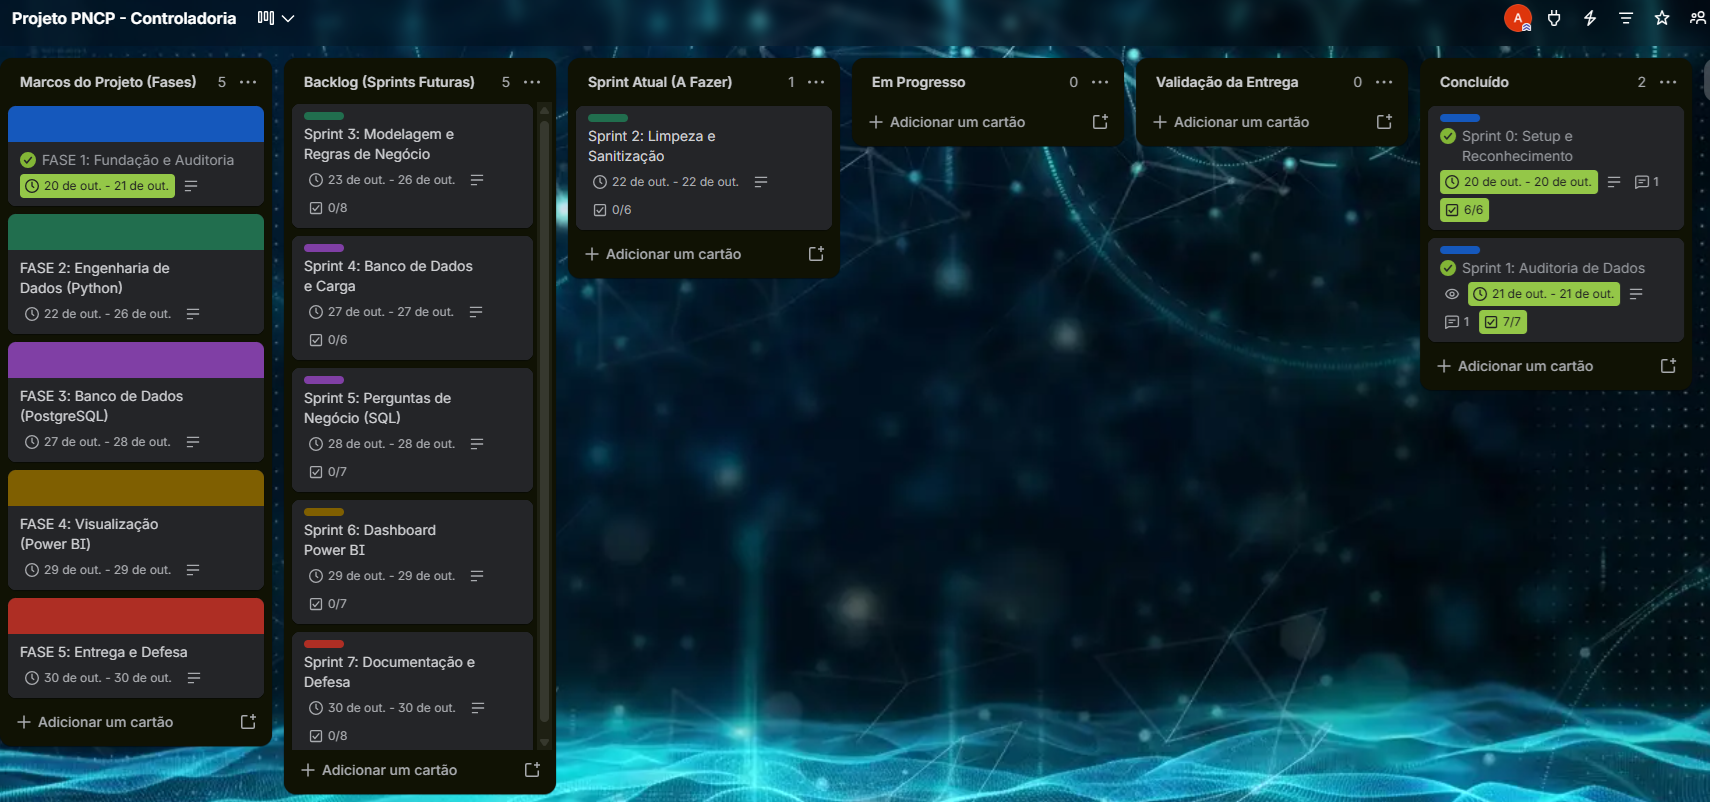
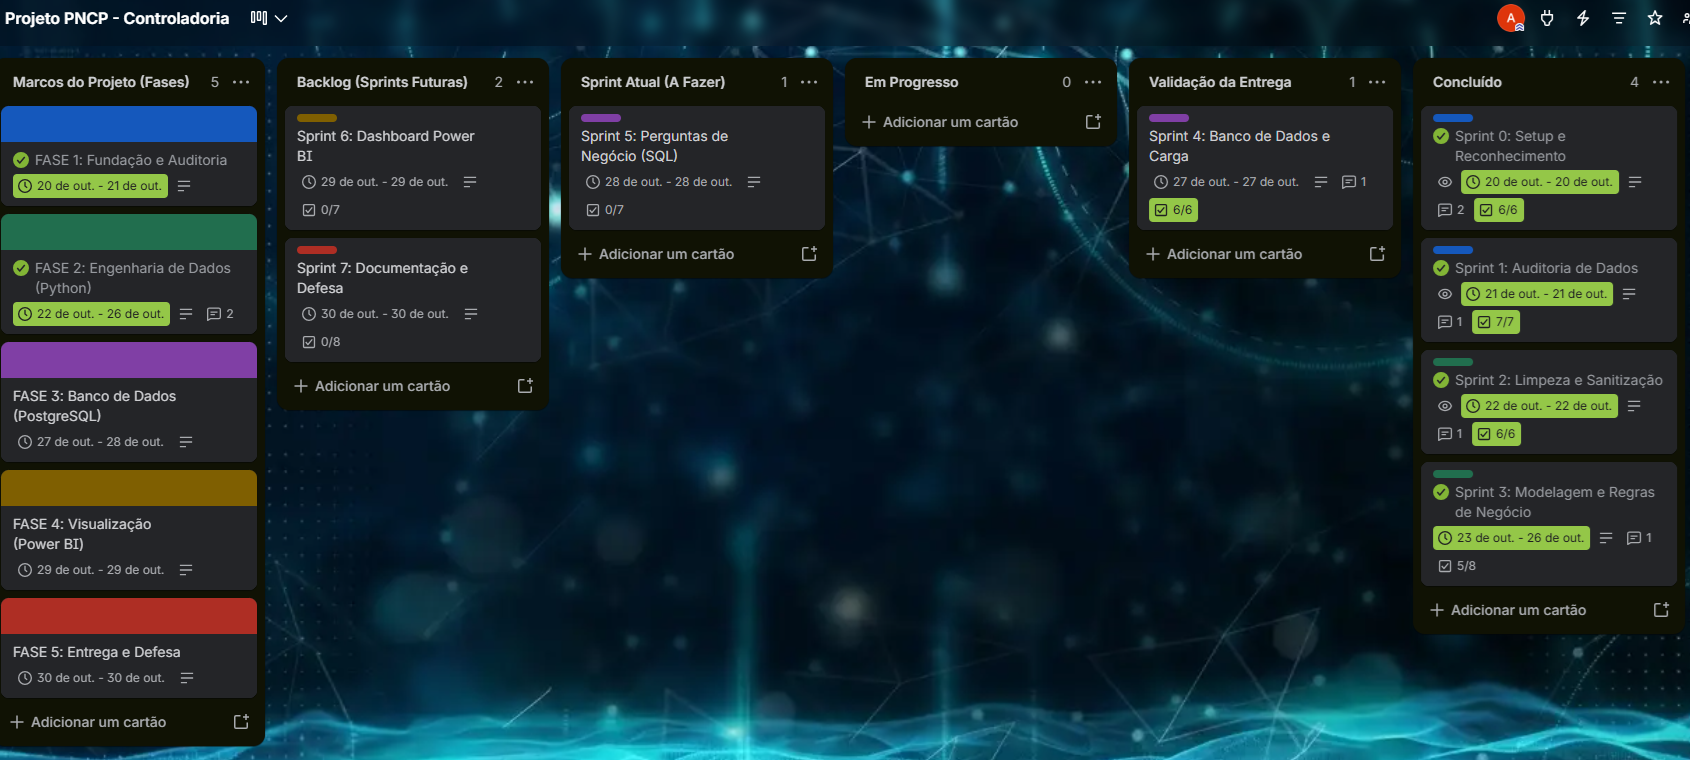
docs: adiciona secao 6 (perguntas e respostas), historico da Sprint 5 e atualiza print do Trello

diff --git a/README.md b/README.md
@@ -31,10 +31,11 @@ Esteira analítica ponta a ponta (End-to-End) para auditoria e inteligência de 
   - [4.1. Sanitização em Python (`src/limpeza.py`)](#41-sanitizacao)
   - [4.2. Regras de negócio da Controladoria](#42-regras-negocio)
 - [5. Modelagem Dimensional (Star Schema)](#5-modelagem)
-- [6. Planejamento em Sprints e Lições Aprendidas](#6-sprints)
-  - [6.1. Histórico de Sprints](#61-historico)
-- [7. Guia de Execução](#7-execucao)
-- [8. Melhorias Futuras e Vídeo de Defesa](#8-melhorias)
+- [6. Perguntas de Negócio e Respostas](#6-perguntas)
+- [7. Planejamento em Sprints e Lições Aprendidas](#7-sprints)
+  - [7.1. Histórico de Sprints](#71-historico)
+- [8. Guia de Execução](#8-execucao)
+- [9. Melhorias Futuras e Vídeo de Defesa](#9-melhorias)
 
 ---
 
@@ -48,7 +49,6 @@ Esteira analítica ponta a ponta (End-to-End) para auditoria e inteligência de 
 ---
 
 <a id="2-arquitetura"></a>
-
 ## 2. Arquitetura da Solução e Tecnologias
 
 *[A preencher na Fase 1]*
@@ -335,16 +335,13 @@ Todos os formatos monetários identificados na Seção 3 são convertidos corret
 
 Os 8 formatos detectados na auditoria descrita na Seção 3 são cobertos pelos 6 formatos-base (combinados com/sem hora). Datas invertidas (1.056 casos) serão tratadas na Sprint 3 pela **regra 7** do enunciado.
 
-#### 4.1.6. Limitações conhecidas (alimentam a Seção 8 — Melhorias Futuras)
+#### 4.1.6. Limitações conhecidas (alimentam a Seção 9 — Melhorias Futuras)
 
 - **`padronizar_nome()`** insere espaço ao redor de qualquer `-`. Resolve `"Pregão-Eletrônico"` → `"PREGÃO - ELETRÔNICO"`, mas alteraria códigos com hífen interno (ex: `"ABC-123"` → `"ABC - 123"`). Para o escopo atual (nomes de órgão/fornecedor), é aceitável.
 - **`remover_invisiveis()`** usa caracteres zero-width literais no código-fonte (invisíveis no editor). Alternativa mais robusta: usar `\u200b` explícito como escape Unicode. Não impacta o resultado; é questão de manutenibilidade.
 
 <a id="42-regras-negocio"></a>
-
 ### 4.2. Regras de negócio da Controladoria (`src/montar_tabelas.py`)
-
-*[A preencher na Sprint 3 — implementação das 12 regras de negócio]*
 
 #### 4.2.1. Decisões herdadas da auditoria (Sprint 1) e da limpeza (Sprint 2)
 
@@ -435,7 +432,7 @@ Foram rejeitados **99 itens** pelos 7 critérios da regra 4 do enunciado. Cada i
 | 6 | Valor total homologado mais de 1.000× o valor total estimado |
 | 7 | Valor total (estimado ou homologado) acima de R$ 1 trilhão — limite definido para não estourar o tipo `DECIMAL(18,2)` do PostgreSQL na Sprint 4 |
 
-Os itens rejeitados **não são carregados na tabela Fato**, a verificação é feita pelo total (99, conforme Anexo 8) são apenas contabilizados.
+Os itens rejeitados **não são carregados na tabela Fato** — a verificação é feita pelo total (99, conforme Anexo 8); são apenas contabilizados.
 
 **Aprendizado:** a Prova Real foi batida na **primeira execução** após corrigir 1 erro de sintaxe (duplicação no `dias_ciclo`). A estratégia de implementar as 12 regras em ordem de dependência (limpeza → vencedor → merge → valores → rejeição → comparabilidade → cronologia → perfil → dimensões) evitou retrabalho.
 
@@ -444,10 +441,9 @@ Os itens rejeitados **não são carregados na tabela Fato**, a verificação é 
 ---
 
 <a id="5-modelagem"></a>
-
 ## 5. Modelagem Dimensional (Star Schema)
 
-A camada analítica segue o modelo **Star Schema** (1 tabela Fato + 4 Dimensões), implementado no PostgreSQL pela Sprint.
+A camada analítica segue o modelo **Star Schema** (1 tabela Fato + 4 Dimensões), implementado no PostgreSQL pela Sprint 4.
 
 ### 5.1. Diagrama
 
@@ -470,9 +466,9 @@ A camada analítica segue o modelo **Star Schema** (1 tabela Fato + 4 Dimensões
 - **Integridade referencial:** 4 FKs da Fato apontam para as 4 Dimensões, todas `NOT NULL`. A Prova Real confirmou que **não há FK órfã** — a linha `-1` ("Não informado") **não foi necessária**;
 - **Tipos de dados:**
   - `DECIMAL(18,2)` para valores monetários totais
-  - `DECIMAL(18,4)` para preços unitários e quantidades;
+  - `DECIMAL(18,4)` para preços unitários e quantidades
   - `DATE` para datas
-  - `SMALLINT` para a flag `comparavel` (0 ou 1).
+  - `SMALLINT` para a flag `comparavel` (0 ou 1)
 - **CHECKs de integridade:** `quantidade > 0`; todos os valores `>= 0`; `comparavel IN (0, 1)`.
 - **Campos vazios:** `data_homologacao`, `economia_valor` e `dias_ciclo` são `NULL` quando a regra de negócio anula o dado (230 itens sem ciclo, itens não comparáveis);
 - **Tempo no Power BI:** a dimensão Calendário **não é tabela do banco** — é criada em DAX no Power BI (Sprint 6), relacionada a `data_publicacao` e `data_homologacao` via `USERELATIONSHIP`.
@@ -481,16 +477,140 @@ A camada analítica segue o modelo **Star Schema** (1 tabela Fato + 4 Dimensões
 
 ---
 
-<a id="6-sprints"></a>
-## 6. Planejamento em Sprints e Lições Aprendidas
+<a id="6-perguntas"></a>
+## 6. Perguntas de Negócio e Respostas
+
+As respostas abaixo foram extraídas com as queries de `sql/02_perguntas.sql` e validadas contra a Prova Real (Anexo 8 do enunciado).
+
+### 6.1. Resumo
+
+| # | Pergunta | Resposta | Query |
+| :---: | :--- | :--- | :--- |
+| 1 | Economia global | **14,46%** / **R$ 992,86 mi** | `P1` |
+| 2 | Concentração de fornecedores | Top 10 = **41,43%** do orçamento | `P2a`, `P2b` |
+| 3 | Eficácia por modalidade | Pregão Eletrônico: **24,02%** de deságio | `P3` |
+| 4 | Ciclo de compras | Média **48,1 dias**, máximo **611** | `P4` |
+| 5 | Distribuição regional | CO concentra **44,25%**; Norte tem **21,43%** de deságio | `P5a`, `P5b` |
+| 6 | Perfil do gasto | Obras = **60,82%** do volume | `P6` |
+
+### 6.2. P1 — Economia global do Poder Público
+
+> *"Qual é o percentual e o valor financeiro nominal economizado pelo governo (diferença entre valor estimado e valor homologado)?"*
+
+- **Valor estimado comparável:** R$ 6.867.663.469,91
+- **Economia nominal:** **R$ 992.861.686,95**
+- **Economia %:** **14,46%**
+
+**Interpretação:** para cada R$ 100 estimados em itens comparáveis, o governo pagou R$ 85,54 — economia de **R$ 14,46 por R$ 100**. Dos R$ 8,04 bi de volume homologado, quase **R$ 1 bilhão** foi economizado.
+
+### 6.3. P2 — Concentração e risco de fornecedores
+
+> *"Quem são os maiores fornecedores em volume financeiro e qual percentual do orçamento público está concentrado neles?"*
+
+**Top 5 fornecedores:**
+
+| Fornecedor | Volume (R$) | % do total |
+| :--- | ---: | ---: |
+| NOW SEGUROS SA | 1.060.000.000,00 | 13,18% |
+| CONSTRUTORA CIDADE LTDA | 524.935.394,97 | 6,53% |
+| BANCO BRADESCO S.A. | 379.194.320,07 | 4,71% |
+| CONSTRUTORA NORTE BRASIL LTDA | 335.401.470,80 | 4,17% |
+| LCM CONSTRUÇÃO E COMÉRCIO S.A. | 228.885.493,53 | 2,85% |
+
+- **Top 10 concentram 41,43%** do orçamento (R$ 3.332.484.029,86 de R$ 8,04 bi).
+- **2.642 fornecedores menores** dividem os 58,57% restantes.
+
+**Interpretação:** a concentração em 10 fornecedores (41% do gasto) é um **sinal de risco** para a Controladoria — dependência de poucos vendedores pode reduzir a competitividade futura. **7 dos 10 maiores são construtoras**, consistente com o perfil do gasto (P6).
+
+### 6.4. P3 — Eficácia por modalidade
+
+> *"Quais modalidades licitatórias trazem maior deságio/economia e quais concentram o maior volume de recursos?"*
+
+| Modalidade | Volume (R$) | Deságio |
+| :--- | ---: | ---: |
+| Concorrência Eletrônica | 4.700.493.122,98 | 14,27% |
+| Credenciamento | 2.141.301.557,16 | **NULL** *(esperado)* |
+| Pregão Eletrônico | 502.223.491,28 | **24,02%** ⭐ |
+| Concorrência Presencial | 444.752.757,18 | 6,79% |
+| Inexigibilidade | 213.365.238,19 | 8,77% |
+| Dispensa | 39.887.350,44 | 4,49% |
+| Pregão Presencial | 2.475.288,51 | 0,02% |
+
+**Interpretação:** há uma **inversão entre volume e deságio**. Pregão Eletrônico tem o **maior deságio (24,02%)**, mas absorve apenas 6% do volume. As modalidades de maior volume — Concorrência Eletrônica (58%) e Credenciamento (27%) — têm deságio **menor** (14,27%) ou **estruturalmente incalculável** (Credenciamento). **A Controladoria tem espaço para ampliar a competitividade onde o dinheiro está.**
+
+### 6.5. P4 — Tempo do ciclo de compras
+
+> *"Qual a duração média (em dias) entre o lançamento do edital e a sua homologação final, segmentada por órgão?"*
+
+- **Ciclo médio geral:** **48,1 dias**
+- **Ciclo máximo:** **611 dias** (COMANDO DO EXÉRCITO)
+- **Órgão mais lento (com ≥ 5 itens):** UFCG — 266,3 dias
+- **Itens sem ciclo:** 230 (homologação anterior à publicação — regra 7)
+
+**Extremos:**
+
+| Órgão | Itens com ciclo | Ciclo médio |
+| :--- | ---: | ---: |
+| UNIVERSIDADE FEDERAL DE CAMPINA GRANDE | 16 | **266,3 dias** |
+| DNIT | 62 | 156,2 dias |
+| COMANDO DO EXÉRCITO | 1.200 | 34,3 dias |
+| COMANDO DA MARINHA | 453 | 35,3 dias |
+
+**Interpretação:** há uma **desigualdade operacional de ~600× entre órgãos**. Os **3 Comandos Militares** (Exército, Marinha, Aeronáutica) são os maiores compradores (33% dos itens) e operam **abaixo da média** (34-56 dias). O **DNIT** (obras) é 4× mais lento que a média — e obras representam 60,82% do gasto (P6). **A lentidão em obras é o gargalo estrutural.**
+
+### 6.6. P5 — Distribuição regional
+
+> *"Quais estados e regiões concentram as maiores despesas e quais apresentam os melhores indicadores de desconto?"*
+
+**Top 5 UFs por volume:**
+
+| UF | Região | Volume (R$) | Deságio |
+| :--- | :--- | ---: | ---: |
+| DF | Centro-Oeste | 3.135.638.456,35 | 15,90% |
+| RS | Sul | 820.584.056,64 | 7,18% |
+| RJ | Sudeste | 461.925.602,27 | 11,57% |
+| PI | Nordeste | 408.389.525,89 | **5,98%** ⚠ |
+| SP | Sudeste | 393.783.392,48 | 9,22% |
+
+**Agregação por região:**
+
+| Região | Volume (R$) | % | Deságio |
+| :--- | ---: | ---: | ---: |
+| **Centro-Oeste** | 3.559.879.991,73 | **44,25%** | 17,02% |
+| Nordeste | 1.850.420.285,02 | 23,00% | 14,18% |
+| Sudeste | 1.083.309.811,49 | 13,47% | 11,62% |
+| **Sul** | 1.021.624.955,41 | 12,70% | **7,96%** ⚠ |
+| **Norte** | 529.263.762,09 | 6,58% | **21,43%** ⭐ |
+
+**Interpretação:** há **inversão geográfica** entre volume e deságio. **Centro-Oeste concentra 44,25% do orçamento** (DF = sede dos órgãos federais) mas tem deságio médio. **Norte tem o maior deságio (21,43%)** com o menor volume — sinal de **mais competição local** ou **menor concentração de fornecedores**. **Sul é o caso mais crítico**: R$ 1,02 bi com deságio de apenas 7,96% (metade da média nacional).
+
+**Custo de oportunidade:** se o Sul tivesse o deságio médio nacional (14,46%), economizaria ~**R$ 66 milhões adicionais**.
+
+### 6.7. P6 — Perfil dos gastos
+
+> *"Como os recursos se distribuem entre bens, serviços e obras e engenharia?"*
+
+| Perfil | Itens | Volume (R$) | % Itens | % Volume |
+| :--- | ---: | ---: | ---: | ---: |
+| **Obras e engenharia** | 967 | 4.892.362.732,70 | 15,8% | **60,82%** |
+| **Serviços** | 1.849 | 2.940.950.885,18 | 30,2% | 36,56% |
+| **Bens** | 3.310 | 211.185.187,86 | 54,0% | **2,63%** |
+
+**Interpretação:** **967 itens de obras consomem quase 2/3 do orçamento**, enquanto 3.310 itens de bens (o dobro em quantidade) consomem apenas 2,63%. **Obras são o gargalo financeiro** — e combinam com P3 (Concorrência Eletrônica, modalidade de obras, lidera o volume) e P4 (DNIT, órgão de obras, é 4× mais lento). **A auditoria da Controladoria deve priorizar obras: é onde o dinheiro está, onde o ciclo é maior e onde o deságio é menor.**
+
+[⬆ Voltar ao índice](#-índice)
+
+---
+
+<a id="7-sprints"></a>
+## 7. Planejamento em Sprints e Lições Aprendidas
 
 O projeto foi executado em **5 Fases (Marcos)** e **8 Micro-Sprints**, adaptando o framework Scrum a um prazo de 9 dias úteis (20/10 a 30/10/2026), sem codificação em fins de semana. Cada Sprint tem um **MVP** e um **Critério de Aceite** explícitos, registrados no Trello.
 
 ![Sprints do projeto](docs/img/sprints.png)
 
-<a id="61-historico"></a>
-
-### 6.1. Histórico de Sprints
+<a id="71-historico"></a>
+### 7.1. Histórico de Sprints
 
 #### Fase 1 — Fundação e Auditoria (Sprints 0 e 1)
 
@@ -552,7 +672,7 @@ Realizados preparação da infraestrutura do projeto e diagnóstico de anomalias
 
 ---
 
-#### Fase 3 — Banco de Dados (Sprints 4 e 5) — em andamento
+#### Fase 3 — Banco de Dados (Sprints 4 e 5) — concluída
 
 ##### Sprint 4 — Banco de Dados e Carga
 
@@ -582,21 +702,73 @@ Realizados preparação da infraestrutura do projeto e diagnóstico de anomalias
 
 **Aprendizado:** validar a conexão real via Python (`psycopg2.connect`) antes de escrever o DDL evita retrabalho. O `Test-NetConnection` só confirma que a porta está aberta — não confirma credenciais nem que o banco existe. Validar com a mesma stack que o pipeline vai usar (psycopg2 + config.py) elimina surpresas.
 
+---
+
+---
+
+##### Sprint 5 — Perguntas de Negócio (SQL)
+
+**O que foi planejado:** escrever as 6 queries em `sql/02_perguntas.sql` que respondem às dores da Controladoria (Seção 4.4 do enunciado), validando cada uma contra a Prova Real (Anexo 8).
+
+**O que foi entregue:**
+
+- `sql/02_perguntas.sql` com **8 queries** (P1, P2a/P2b, P3, P4, P5a/P5b, P6).
+- **Todas as 6 perguntas validadas** contra o Anexo 8 do enunciado.
+
+| # | Pergunta | Resultado | Prova Real |
+| :---: | :--- | :--- | :--- |
+| **P1** | Economia global | **14,46%** / **R$ 992.861.686,95** | 14,46% / R$ 992.861.686,95 |
+| **P1** | Estimado comparável | **R$ 6.867.663.469,91** | R$ 6.867.663.469,91 |
+| **P2a** | Top 10 fornecedores | 10 linhas, #1 com 13,18% | *(coerência)* |
+| **P2b** | Concentração Top 10 | **41,43%** (R$ 3.332.484.029,86) | *(coerência)* |
+| **P3** | Deságio por modalidade | Credenciamento = **NULL** | NULL *(esperado)* |
+| **P4** | Ciclo máximo por órgão | **611 dias** (COMANDO DO EXÉRCITO) | 611 dias |
+| **P5a** | Distribuição por UF | 27 UFs, soma = R$ 8,04 bi | R$ 8,04 bi |
+| **P5b** | Distribuição por região | 5 regiões, soma = R$ 8,04 bi | R$ 8,04 bi |
+| **P6** | Perfil do gasto | **60,82% Obras / 36,56% Serviços / 2,63% Bens** | 60,8 / 36,6 / 2,6 |
+
+**Decisões técnicas aplicadas (Seção 4.4 do enunciado):**
+
+- **Percentual = SOMA ÷ SOMA** em todas as queries (nunca média de percentuais) — usando `NULLIF(denominador, 0)` para evitar divisão por zero.
+- **Economia só nos comparáveis:** `CASE WHEN comparavel = 1` + `SUM` (nunca `AVG` de percentuais).
+- **Credenciamento (modalidade 12):** `desagio_pct` retorna **NULL** porque não tem item comparável — comportamento esperado, conforme o enunciado.
+- **P2 (fornecedores):** `LIMIT 10` no ranking + subconsulta no denominador para o percentual do total.
+- **P4 (ciclo):** `GROUP BY o.nome_orgao` (agrupando pelo nome padronizado, não pelo CNPJ) + `COUNT(dias_ciclo)` (só itens com ciclo) + `HAVING COUNT >= 5`.
+- **P6 (perfil):** `GROUP BY perfil_gasto` direto na Fato — sem JOIN, conforme dica do enunciado.
+
+**Desafios e adaptações:**
+
+- **`current_database()` no pgAdmin:** a primeira execução falhou com `relation "fato_item_contratado" does not exist` porque o Query Tool estava conectado no banco administrativo `postgres`, não em `pncp_controladoria`. Solução: abrir o Query Tool a partir do banco correto (botão direito em `pncp_controladoria` → Query Tool). **O código SQL estava correto desde o início** — o erro era de conexão, não de sintaxe.
+- **Divisão por zero no Credenciamento:** sem `NULLIF`, a query de P3 lançaria `division by zero` porque o denominador (estimado comparável) é 0. O `NULLIF(..., 0)` devolve NULL — exatamente o comportamento esperado (o enunciado avisa: *"em Credenciamento nenhum item é comparável, então a economia % dessa modalidade fica vazia"*).
+- **Encoding quebrado na exibição do pgAdmin:** a query P3 mostrou `ConcorrÃªncia` e `PregÃ£o` no output do Query Tool — mas o dado no banco está correto (`Concorrência`, `Pregão`). É configuração do cliente SQL, não do dado. Solução para o vídeo: rodar `SET client_encoding = 'UTF8';` antes da query, ou mostrar direto no Power BI (que respeita UTF-8).
+- **Validação incremental:** cada query foi validada **individualmente** no pgAdmin (selecionando o bloco e `F5`), em vez de rodar o arquivo inteiro. Isso permitiu identificar rapidamente que o problema inicial era de conexão no banco errado — não de lógica SQL. Rodar tudo de uma vez devolveria só o último resultado e mascararia a causa real.
+
+**Achados analíticos (para o vídeo e para a Controladoria):**
+
+- **P3 + P6 combinadas:** Pregão Eletrônico tem o **maior deságio (24,02%)**, mas absorve apenas 6% do volume. Concorrência Eletrônica concentra **58% do volume** (obras), com deságio de 14,27%. **Há espaço para ampliar a competitividade onde o dinheiro está.**
+- **P4:** os **3 Comandos Militares** (Exército, Marinha, Aeronáutica) concentram 33% dos itens e operam **abaixo da média** (34-56 dias) — são os maiores compradores e os mais eficientes. O **DNIT** (obras) é 4× mais lento que a média.
+- **P5b:** o **Sul** tem R$ 1,02 bi de volume com deságio de apenas **7,96%** (metade da média nacional de 14,46%). O **Norte** tem o **maior deságio (21,43%)** com o menor volume. Há uma **inversão geográfica** entre volume e deságio.
+- **P6:** **967 itens de obras** consomem quase **2/3 do orçamento**, enquanto **3.310 itens de bens** (o dobro em quantidade) consomem **2,63%**.
+
+**Aprendizado:** a validação incremental (uma query por vez) foi decisiva. O primeiro erro (`relation does not exist`) parecia grave — mas era simplesmente o Query Tool conectado no banco errado. Se eu tivesse rodado todas as queries de uma vez, o output seria apenas o último resultado, e a causa real demoraria a ser identificada. **Validar uma pergunta por vez, comparar com a Prova Real antes de avançar** — mesma lógica da Sprint 2 ("uma função por vez") e da Sprint 4 ("validar a conexão antes do DDL").
+
 [⬆ Voltar ao índice](#-índice)
 
 ---
 
-<a id="7-execucao"></a>
-## 7. Guia de Execução (Como reproduzir)
+<a id="8-execucao"></a>
+## 8. Guia de Execução (Como reproduzir)
 
-*[A preencher na Fase 3 e finalizar na Fase 5 — passo a passo: instalar requirements, configurar `.env`, rodar scripts na ordem correta]*
+> **Nota sobre `data/processed/`:** os arquivos gerados por `src/montar_tabelas.py` (fato + 4 dimensões em CSV) **não são versionados** — estão no `.gitignore`. Eles são regeneráveis a partir do código + `data/raw/`, conforme orientação do professor. Quem clonar o repositório reproduz os arquivos rodando o pipeline.
+
+*[Passo a passo completo: instalar `requirements.txt`, configurar `.env`, rodar scripts na ordem correta — a preencher nas Sprints 4 e 5]*
 
 [⬆ Voltar ao índice](#-índice)
 
 ---
 
-<a id="8-melhorias"></a>
-## 8. Melhorias Futuras e Vídeo de Defesa
+<a id="9-melhorias"></a>
+## 9. Melhorias Futuras e Vídeo de Defesa
 
 *[A preencher na Fase 5 — link do vídeo no Google Drive]*
 
